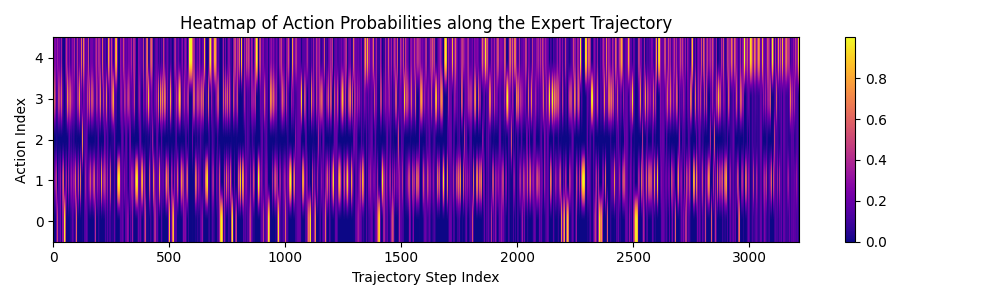
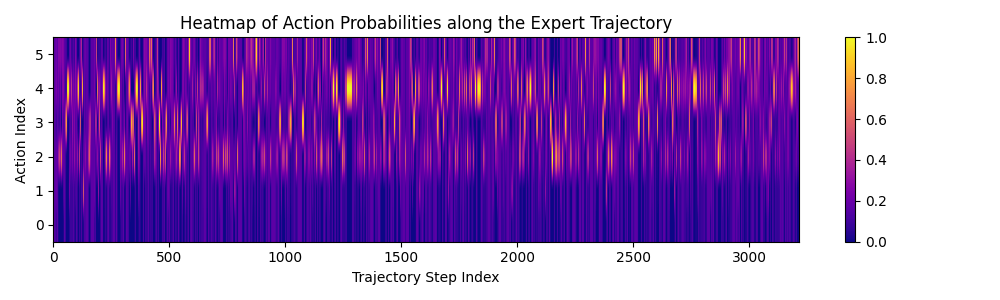
commit

diff --git a/test.py b/test.py
@@ -39,10 +39,10 @@ actions_medauroidea = trajectory_dirvel_medauroidea[:, 1].astype(int)
 
 
 # the policy used
-q_values = q_value_accvel_medauroidea
+q_values = q_value_accvel_carausius
 # the test source
-state_indices = state_indices_accvel_carausius
-actions = actions_carausius
+state_indices = state_indices_accvel_medauroidea
+actions = actions_medauroidea
 
 replicated_trajectory = []
 for i in range(len(state_indices)):
